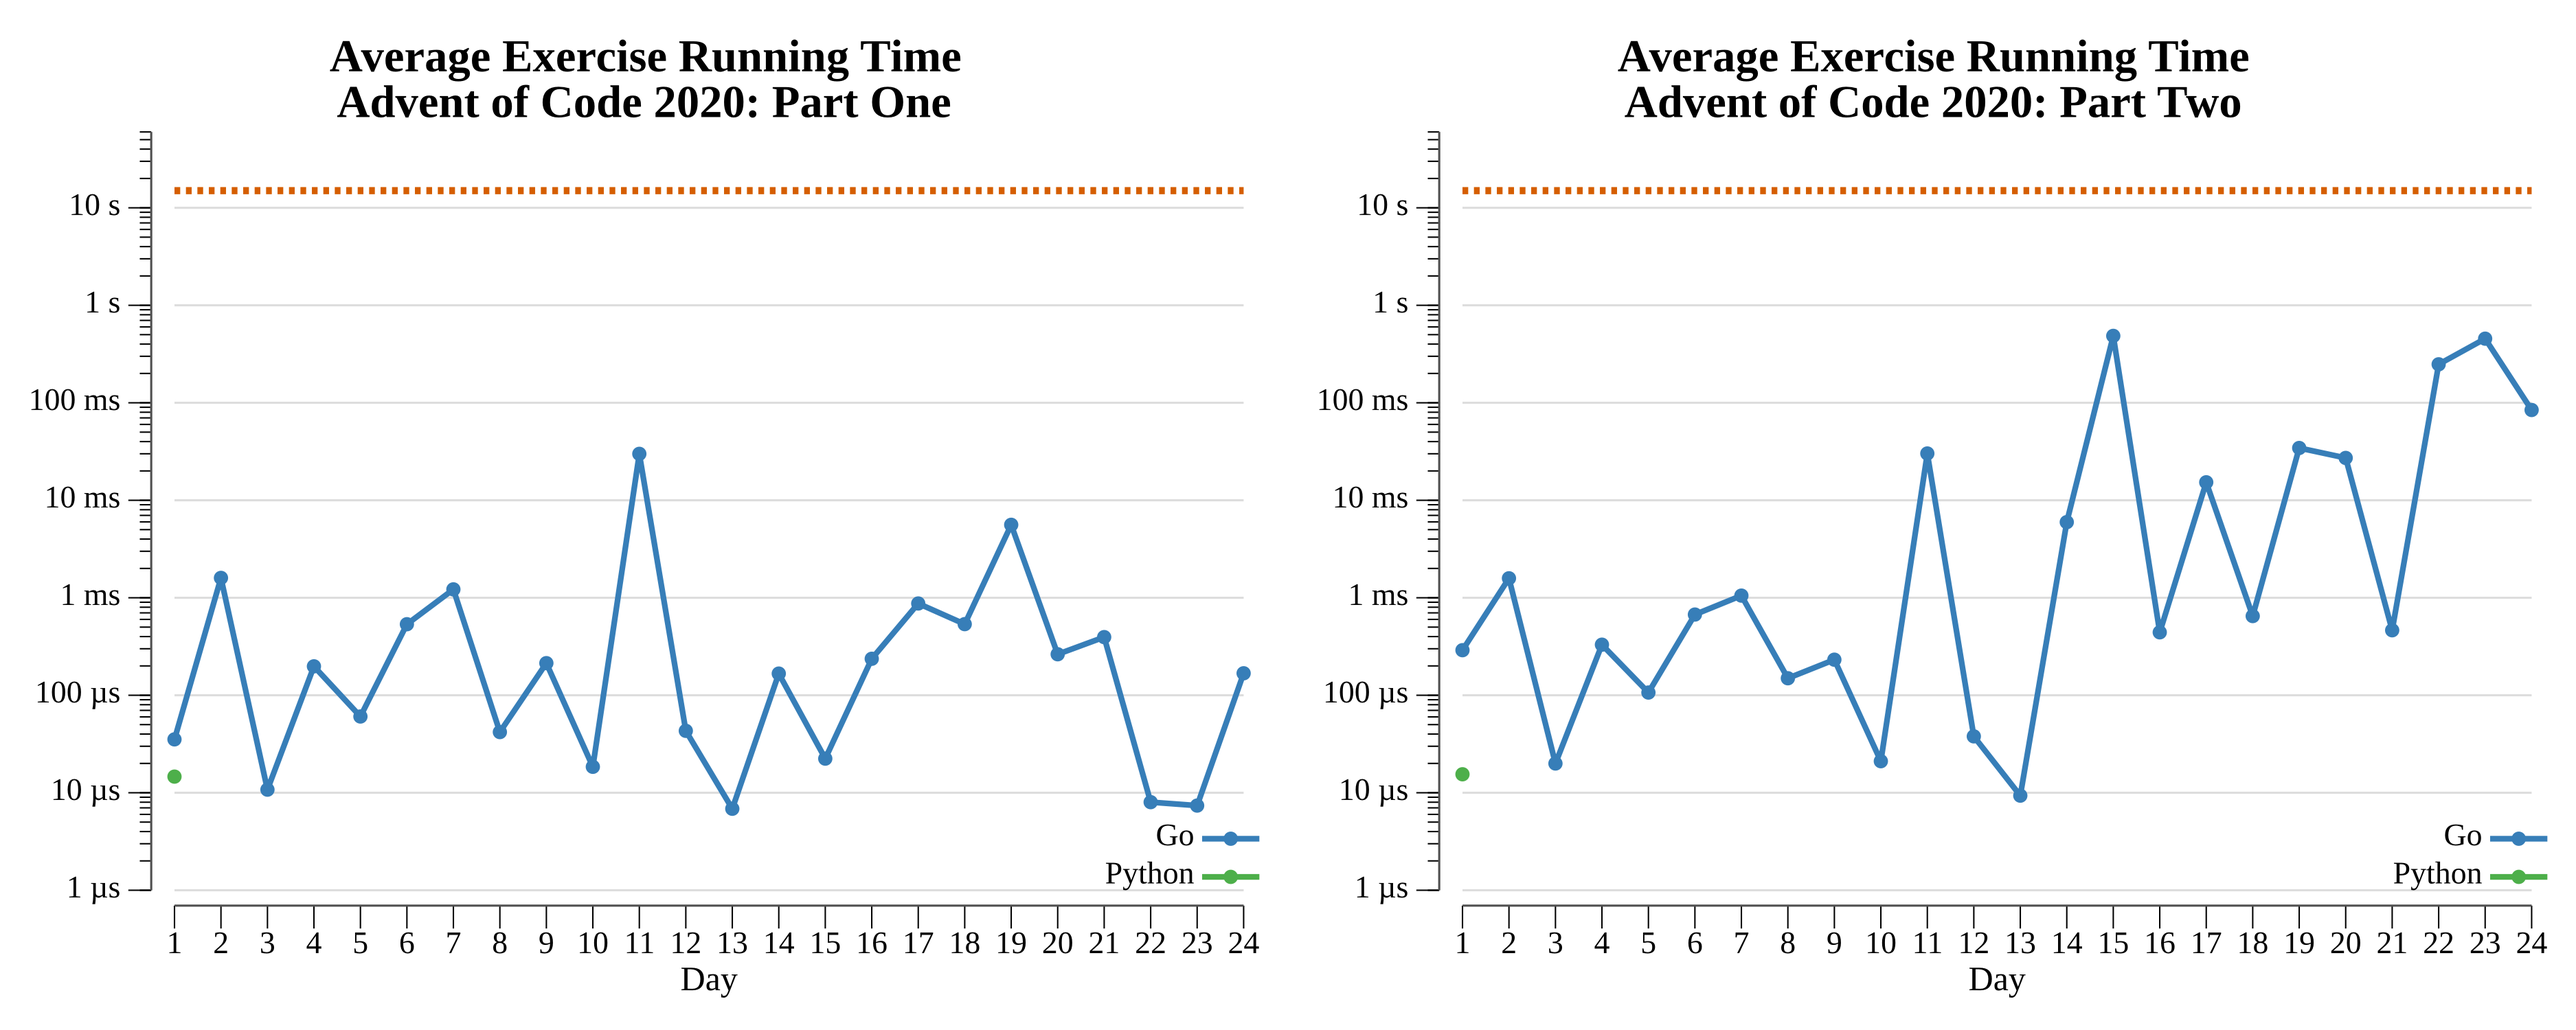
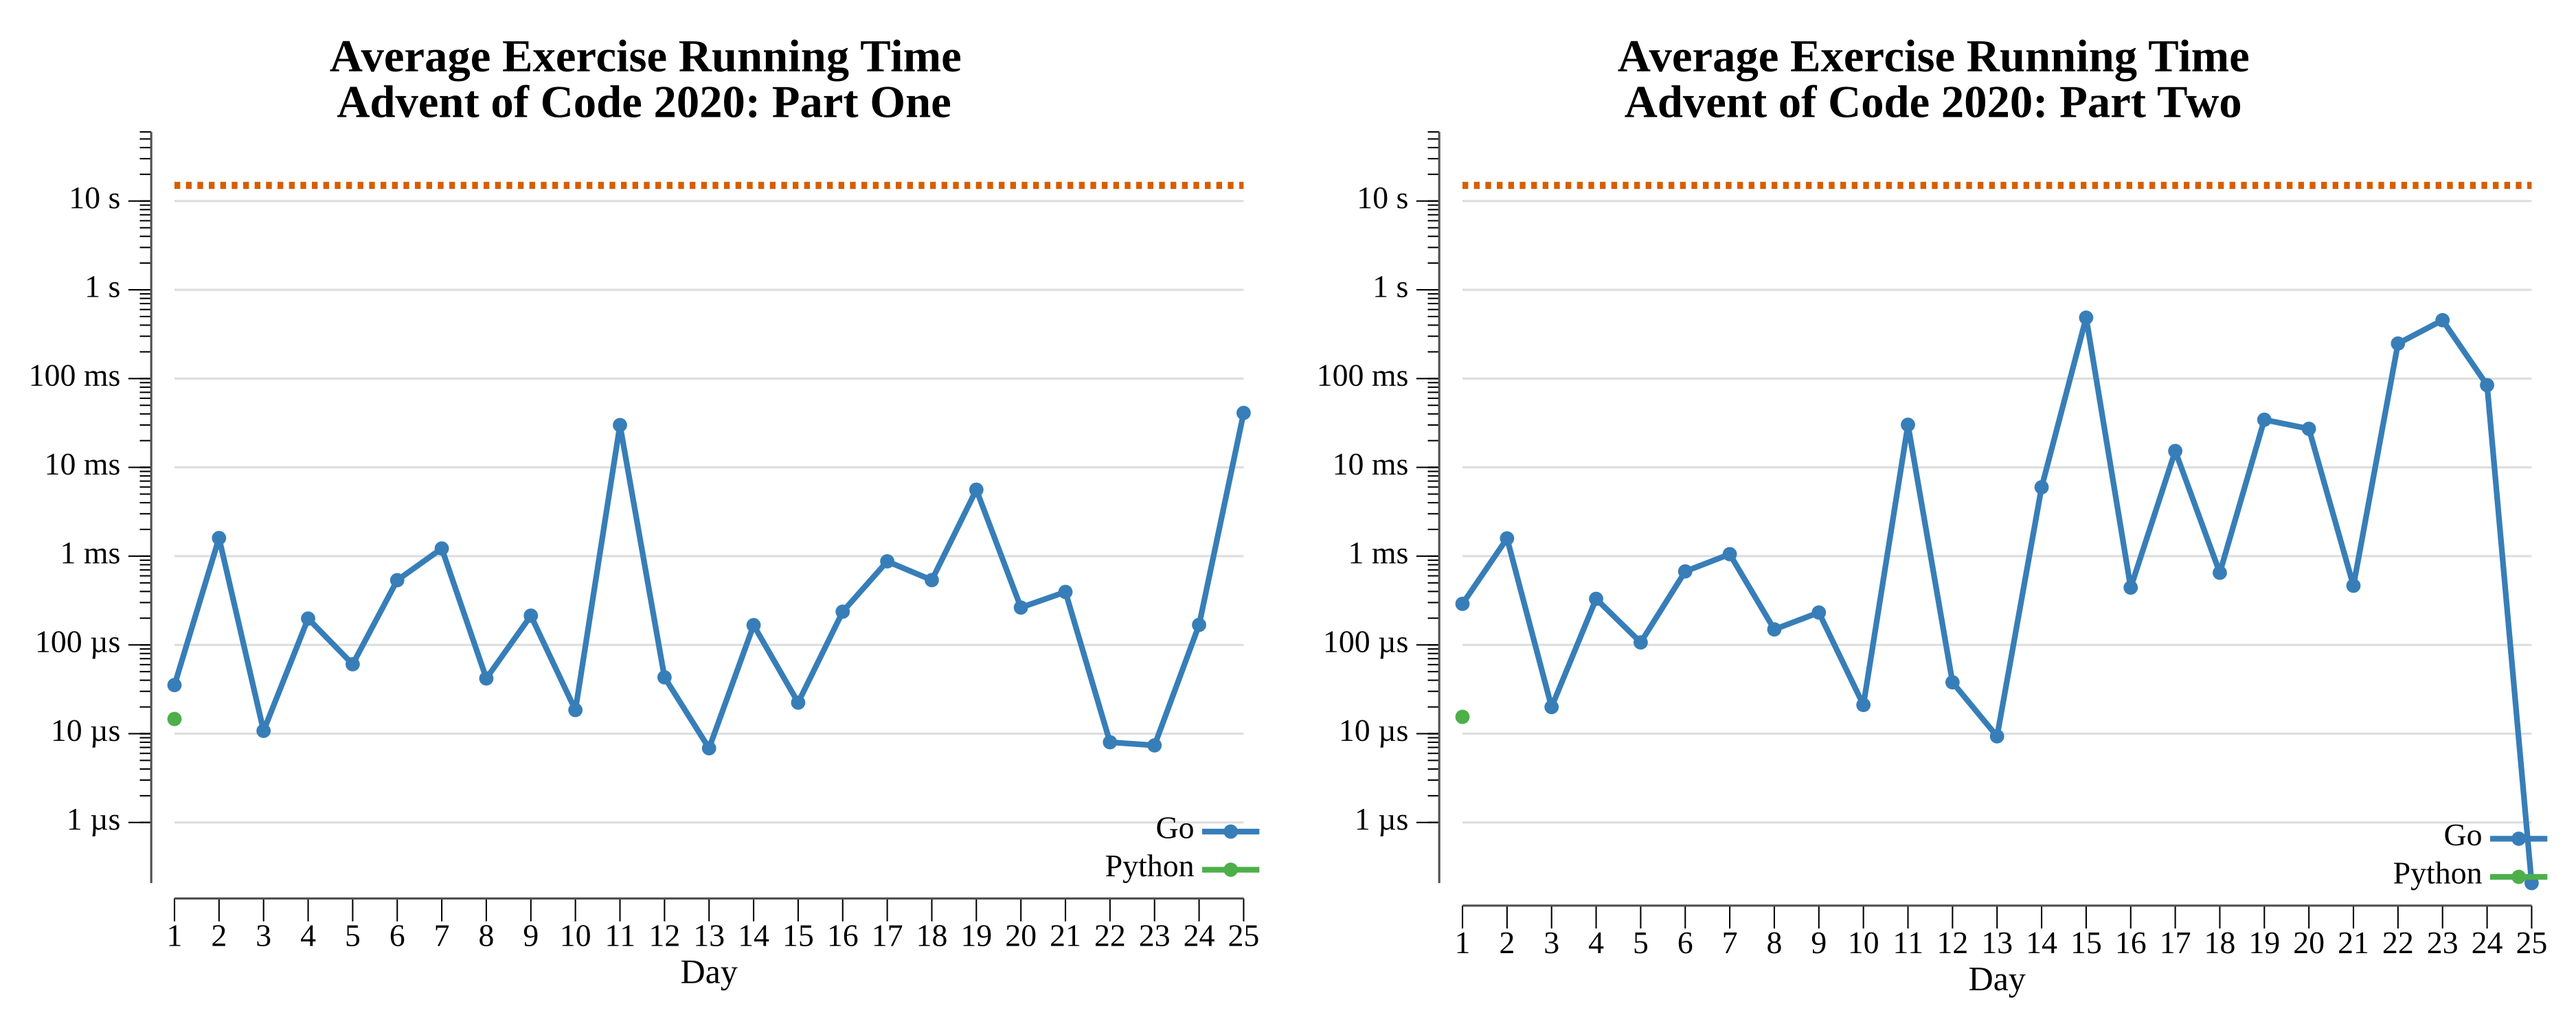
2020 day 25

diff --git a/exercises/2020/25-comboBreaker/go/vis.go b/exercises/2020/25-comboBreaker/go/vis.go
@@ -1,0 +1,80 @@
+package exercises
+
+import (
+	"fmt"
+	"os"
+	"path/filepath"
+	"strings"
+)
+
+// Vis draws the key exchange as a diagram. Both the card and the door transform
+// the subject number 7 by their secret loop size to get a public key; recovering
+// one loop size (the discrete log that Part One brute-forces) and applying it to
+// the other public key yields the same shared encryption key from either side.
+// The two sides use distinct colorblind-safe colors, and the shared result is
+// highlighted; labels carry all the numbers, so the diagram reads in grayscale.
+func (e Exercise) Vis(instr, outdir string) error {
+	card, door, err := parse(instr)
+	if err != nil {
+		return err
+	}
+	cardLoop := findLoop(card)
+	doorLoop := findLoop(door)
+	secret := modPow(door, cardLoop)
+
+	const (
+		W  = 900
+		H  = 420
+		mL = 40
+	)
+	cardCol := "#E69F00" // orange
+	doorCol := "#0072B2" // blue
+	secretCol := "#F0E442"
+
+	var sb strings.Builder
+	fmt.Fprintf(&sb, `<svg xmlns="http://www.w3.org/2000/svg" width="%d" height="%d" viewBox="0 0 %d %d" font-family="monospace">`, W, H, W, H)
+	fmt.Fprintf(&sb, `<rect width="%d" height="%d" fill="#111418"/>`, W, H)
+	fmt.Fprintf(&sb, `<text x="%d" y="34" fill="#e8ecf4" font-size="16">Combo Breaker: the key exchange (mod %d)</text>`, mL, modulus)
+
+	box := func(x, y, w, h int, col, title, line1, line2 string) {
+		fmt.Fprintf(&sb, `<rect x="%d" y="%d" width="%d" height="%d" rx="6" fill="none" stroke="%s" stroke-width="2"/>`, x, y, w, h, col)
+		fmt.Fprintf(&sb, `<text x="%d" y="%d" fill="%s" font-size="14" font-weight="bold">%s</text>`, x+12, y+22, col, title)
+		fmt.Fprintf(&sb, `<text x="%d" y="%d" fill="#e8ecf4" font-size="12">%s</text>`, x+12, y+42, line1)
+		if line2 != "" {
+			fmt.Fprintf(&sb, `<text x="%d" y="%d" fill="#c8d0dc" font-size="12">%s</text>`, x+12, y+60, line2)
+		}
+	}
+
+	bw, bh := 340, 74
+	lx, rx := mL, W-mL-bw
+
+	// Row 1: each side's secret loop and public key.
+	box(lx, 70, bw, bh, cardCol, "Card",
+		fmt.Sprintf("secret loop: %d", cardLoop),
+		fmt.Sprintf("public = 7^loop mod m = %d", card))
+	box(rx, 70, bw, bh, doorCol, "Door",
+		fmt.Sprintf("secret loop: %d", doorLoop),
+		fmt.Sprintf("public = 7^loop mod m = %d", door))
+
+	// Cross arrows: each side raises the OTHER's public key to its own loop.
+	fmt.Fprintf(&sb, `<line x1="%d" y1="%d" x2="%d" y2="%d" stroke="%s" stroke-width="1.5" marker-end="url(#a1)"/>`, lx+bw, 130, rx, 200, cardCol)
+	fmt.Fprintf(&sb, `<line x1="%d" y1="%d" x2="%d" y2="%d" stroke="%s" stroke-width="1.5" marker-end="url(#a2)"/>`, rx, 130, lx+bw, 200, doorCol)
+	fmt.Fprintf(&sb, `<defs><marker id="a1" markerWidth="8" markerHeight="8" refX="6" refY="3" orient="auto"><path d="M0,0 L6,3 L0,6 Z" fill="%s"/></marker>`, cardCol)
+	fmt.Fprintf(&sb, `<marker id="a2" markerWidth="8" markerHeight="8" refX="6" refY="3" orient="auto"><path d="M0,0 L6,3 L0,6 Z" fill="%s"/></marker></defs>`, doorCol)
+
+	// Row 2: the two computations that both land on the secret.
+	box(lx, 210, bw, bh, cardCol, "Card computes",
+		"door_public ^ card_loop mod m",
+		fmt.Sprintf("= %d ^ %d = %d", door, cardLoop, secret))
+	box(rx, 210, bw, bh, doorCol, "Door computes",
+		"card_public ^ door_loop mod m",
+		fmt.Sprintf("= %d ^ %d = %d", card, doorLoop, secret))
+
+	// Shared secret.
+	sy := 330
+	fmt.Fprintf(&sb, `<rect x="%d" y="%d" width="%d" height="50" rx="8" fill="%s"/>`, W/2-180, sy, 360, secretCol)
+	fmt.Fprintf(&sb, `<text x="%d" y="%d" fill="#0d0f18" font-size="16" font-weight="bold" text-anchor="middle">shared encryption key = %d</text>`, W/2, sy+31, secret)
+
+	sb.WriteString(`</svg>`)
+	return os.WriteFile(filepath.Join(outdir, "combo-breaker.svg"), []byte(sb.String()), 0o600)
+}

diff --git a/exercises/2020/25-comboBreaker/go/exercise.go b/exercises/2020/25-comboBreaker/go/exercise.go
@@ -1,0 +1,78 @@
+package exercises
+
+import (
+	"fmt"
+	"strconv"
+	"strings"
+
+	"github.com/asphaltbuffet/advent-of-code/internal/common"
+)
+
+// Exercise for Advent of Code 2020 day 25.
+type Exercise struct {
+	common.BaseExercise
+}
+
+const (
+	modulus = 20201227
+	subject = 7
+)
+
+func parse(instr string) (int, int, error) {
+	lines := strings.Fields(strings.TrimSpace(instr))
+	if len(lines) != 2 {
+		return 0, 0, fmt.Errorf("expected two public keys")
+	}
+	a, err := strconv.Atoi(lines[0])
+	if err != nil {
+		return 0, 0, err
+	}
+	b, err := strconv.Atoi(lines[1])
+	if err != nil {
+		return 0, 0, err
+	}
+	return a, b, nil
+}
+
+// findLoop brute-forces the loop size: how many times 7 is transformed to reach
+// the given public key.
+func findLoop(pub int) int {
+	value := 1
+	loop := 0
+	for value != pub {
+		value = value * subject % modulus
+		loop++
+	}
+	return loop
+}
+
+// modPow computes base^exp mod modulus by fast exponentiation.
+func modPow(base, exp int) int {
+	result := 1
+	base %= modulus
+	for exp > 0 {
+		if exp&1 == 1 {
+			result = result * base % modulus
+		}
+		base = base * base % modulus
+		exp >>= 1
+	}
+	return result
+}
+
+// One recovers one card's loop size and applies it to the other public key to
+// derive the shared encryption key.
+func (e Exercise) One(instr string) (any, error) {
+	card, door, err := parse(instr)
+	if err != nil {
+		return nil, err
+	}
+
+	cardLoop := findLoop(card)
+	return fmt.Sprintf("%d", modPow(door, cardLoop)), nil
+}
+
+// Two is the free star for completing all other days; there is no puzzle here.
+func (e Exercise) Two(_ string) (any, error) {
+	return "Merry Christmas!", nil
+}

diff --git a/exercises/2020/25-comboBreaker/README.md b/exercises/2020/25-comboBreaker/README.md
@@ -1,0 +1,50 @@
+# [Day 25: Combo Breaker](https://adventofcode.com/2020/day/25)
+
+<!-- These are helper text to make formatting the yearly readme consistent and easier...
+
+[Day 25: Combo Breaker][rm25]
+[Go][go25]
+
+[rm25]: 25-comboBreaker/README.md
+[go25]: 25-comboBreaker/go
+
+-->
+
+## Notes
+
+A Diffie-Hellman key exchange. Each device's public key is `7^loop mod 20201227`,
+where `loop` is its secret. Recovering a loop size is the discrete-log problem;
+at this modulus (~20M) brute force suffices: transform 7 repeatedly, counting
+steps until it matches a public key. Applying that loop to the *other* public key
+via fast modular exponentiation yields the shared encryption key — the same value
+from either side.
+
+As the day 25 finale, Part Two is the free star awarded for completing every
+other day, so it simply returns "Merry Christmas!".
+
+## Go
+
+```text
+────────────────────────────────────────
+─      2020 Day 25: Combo Breaker      ─
+────────────────────────────────────────
+
+Solving (Go)…
+1.0:  PASS            43.551ms
+2.0:  PASS             0.000ms
+```
+
+## Visualization
+
+The key exchange as a diagram. The card and the door each transform the subject
+number 7 by their secret loop size to produce a public key; recovering one loop
+size (what Part One brute-forces) and raising the other side's public key to it
+gives the same shared encryption key from both directions. The two sides are
+distinguished by title and position as well as color, and every number is
+labeled, so the diagram reads in grayscale.
+
+![Diffie-Hellman key exchange](combo-breaker.svg)
+
+## Run Times
+
+![Day 25 run-time graphs](run-times.png)

diff --git a/exercises/2020/README.md b/exercises/2020/README.md
@@ -30,7 +30,7 @@
 | [Day 22: Crab Combat][rm_22] |  ★ ★  | [Go][go_22] |
 | [Day 23: Crab Cups][rm_23] |  ★ ★  | [Go][go_23] |
 | [Day 24: Lobby Layout][rm_24] |  ★ ★  | [Go][go_24] |
-| 25                           |  ☆ ☆  |            |
+| [Day 25: Combo Breaker][rm_25] |  ★ ★  | [Go][go_25] |
 
 [rm_1]: 01-reportRepair/README.md
 [go_1]: 01-reportRepair/go
@@ -80,6 +80,8 @@
 [go_23]: 23-crabCups/go
 [rm_24]: 24-lobbyLayout/README.md
 [go_24]: 24-lobbyLayout/go
+[rm_25]: 25-comboBreaker/README.md
+[go_25]: 25-comboBreaker/go
 
 ## 2020 Run Times
 
